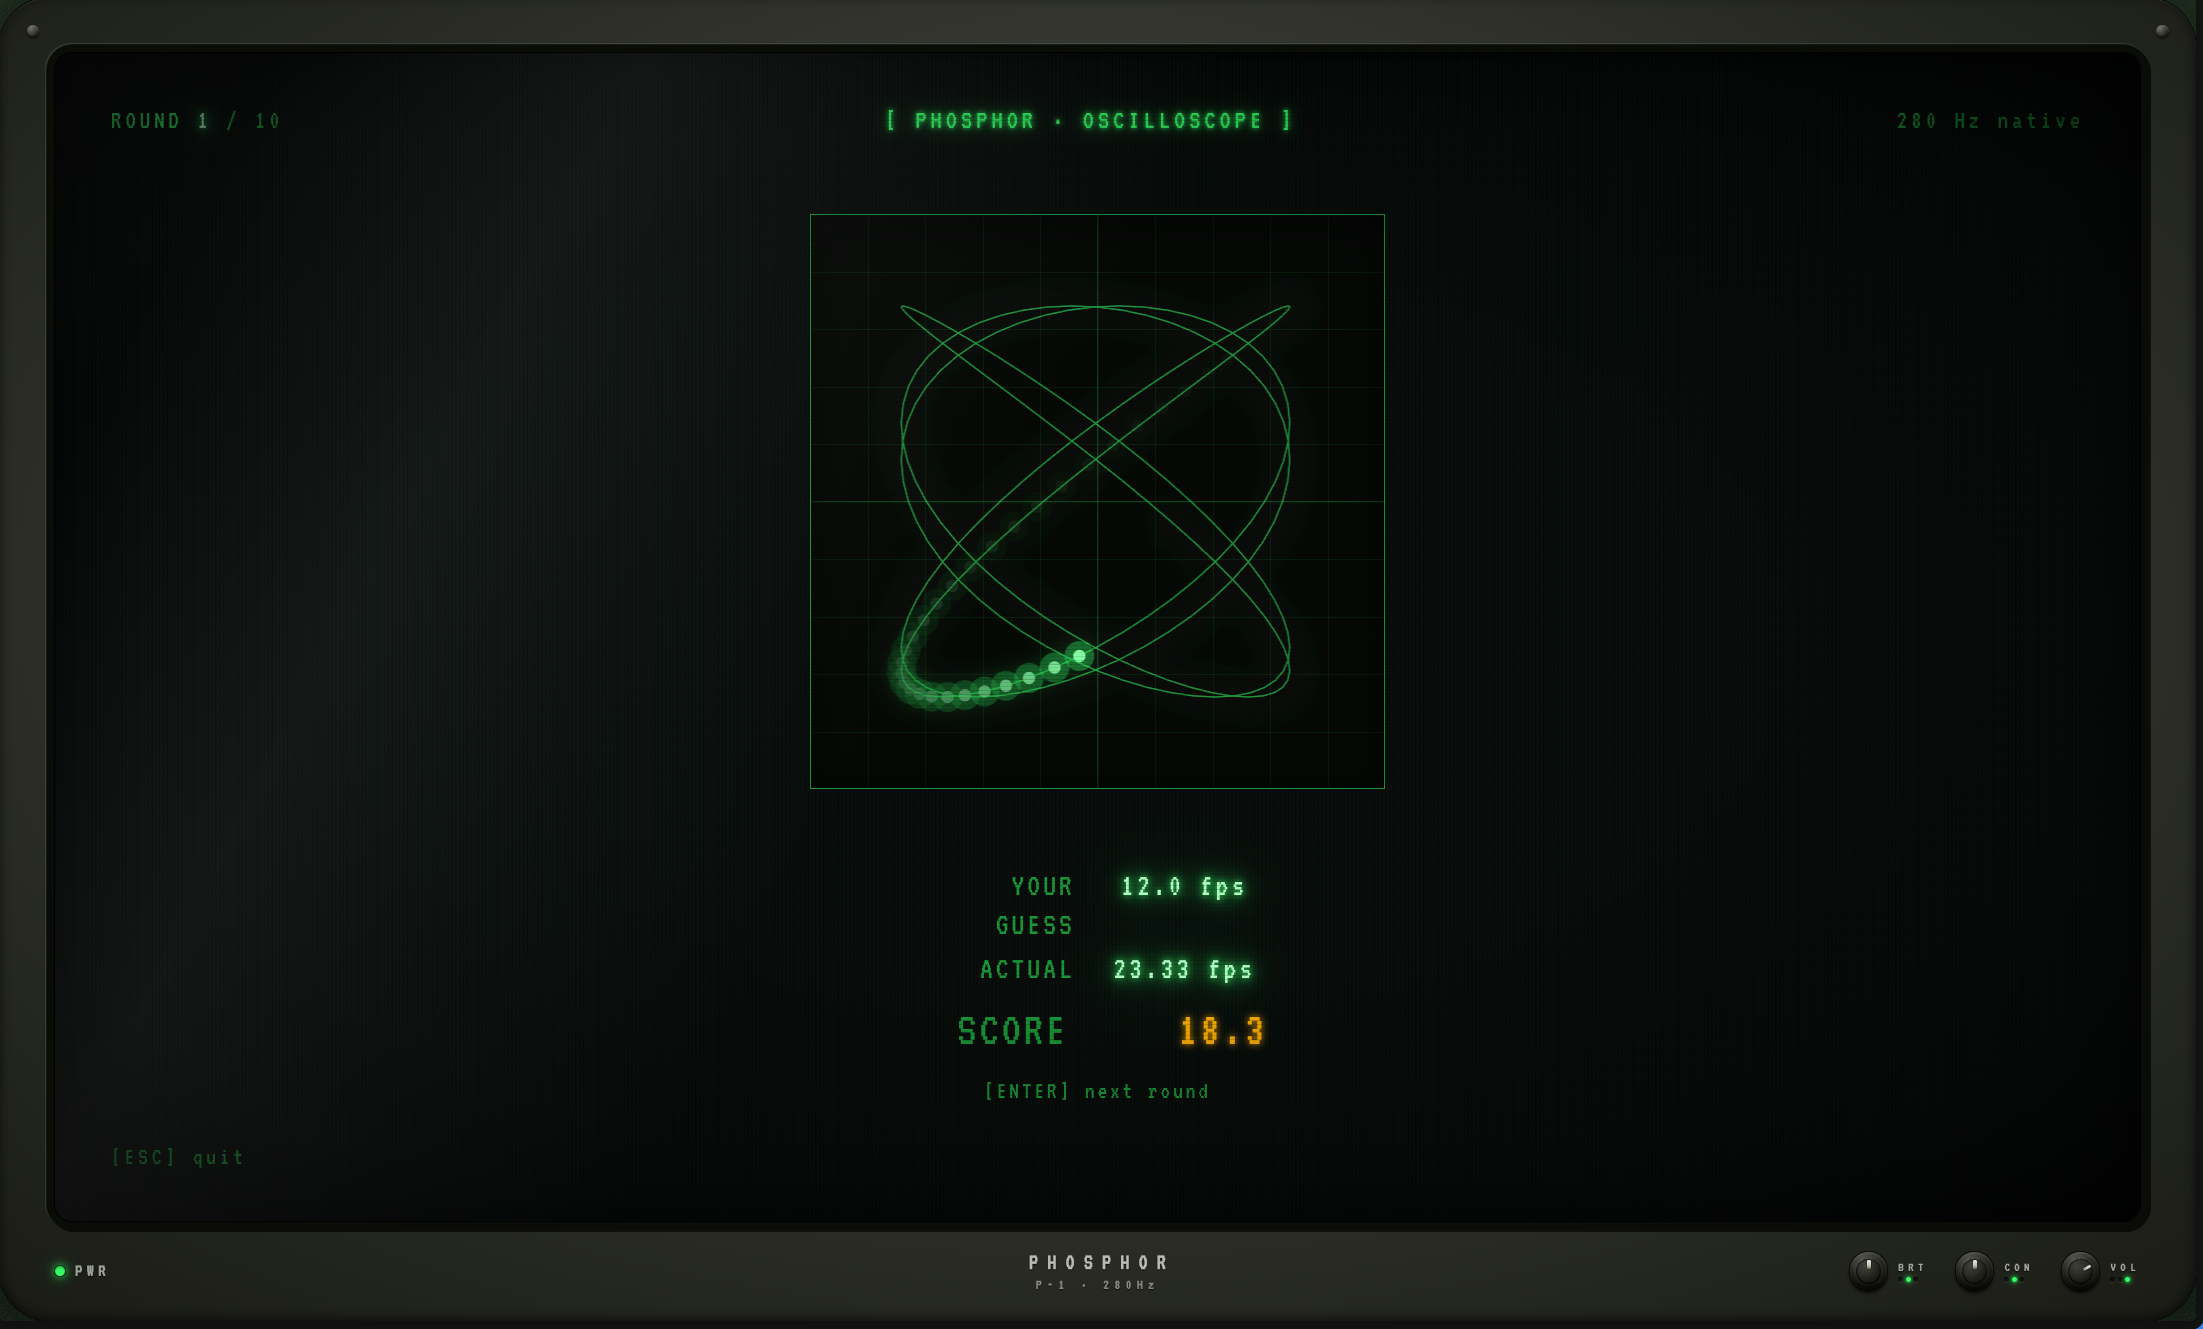
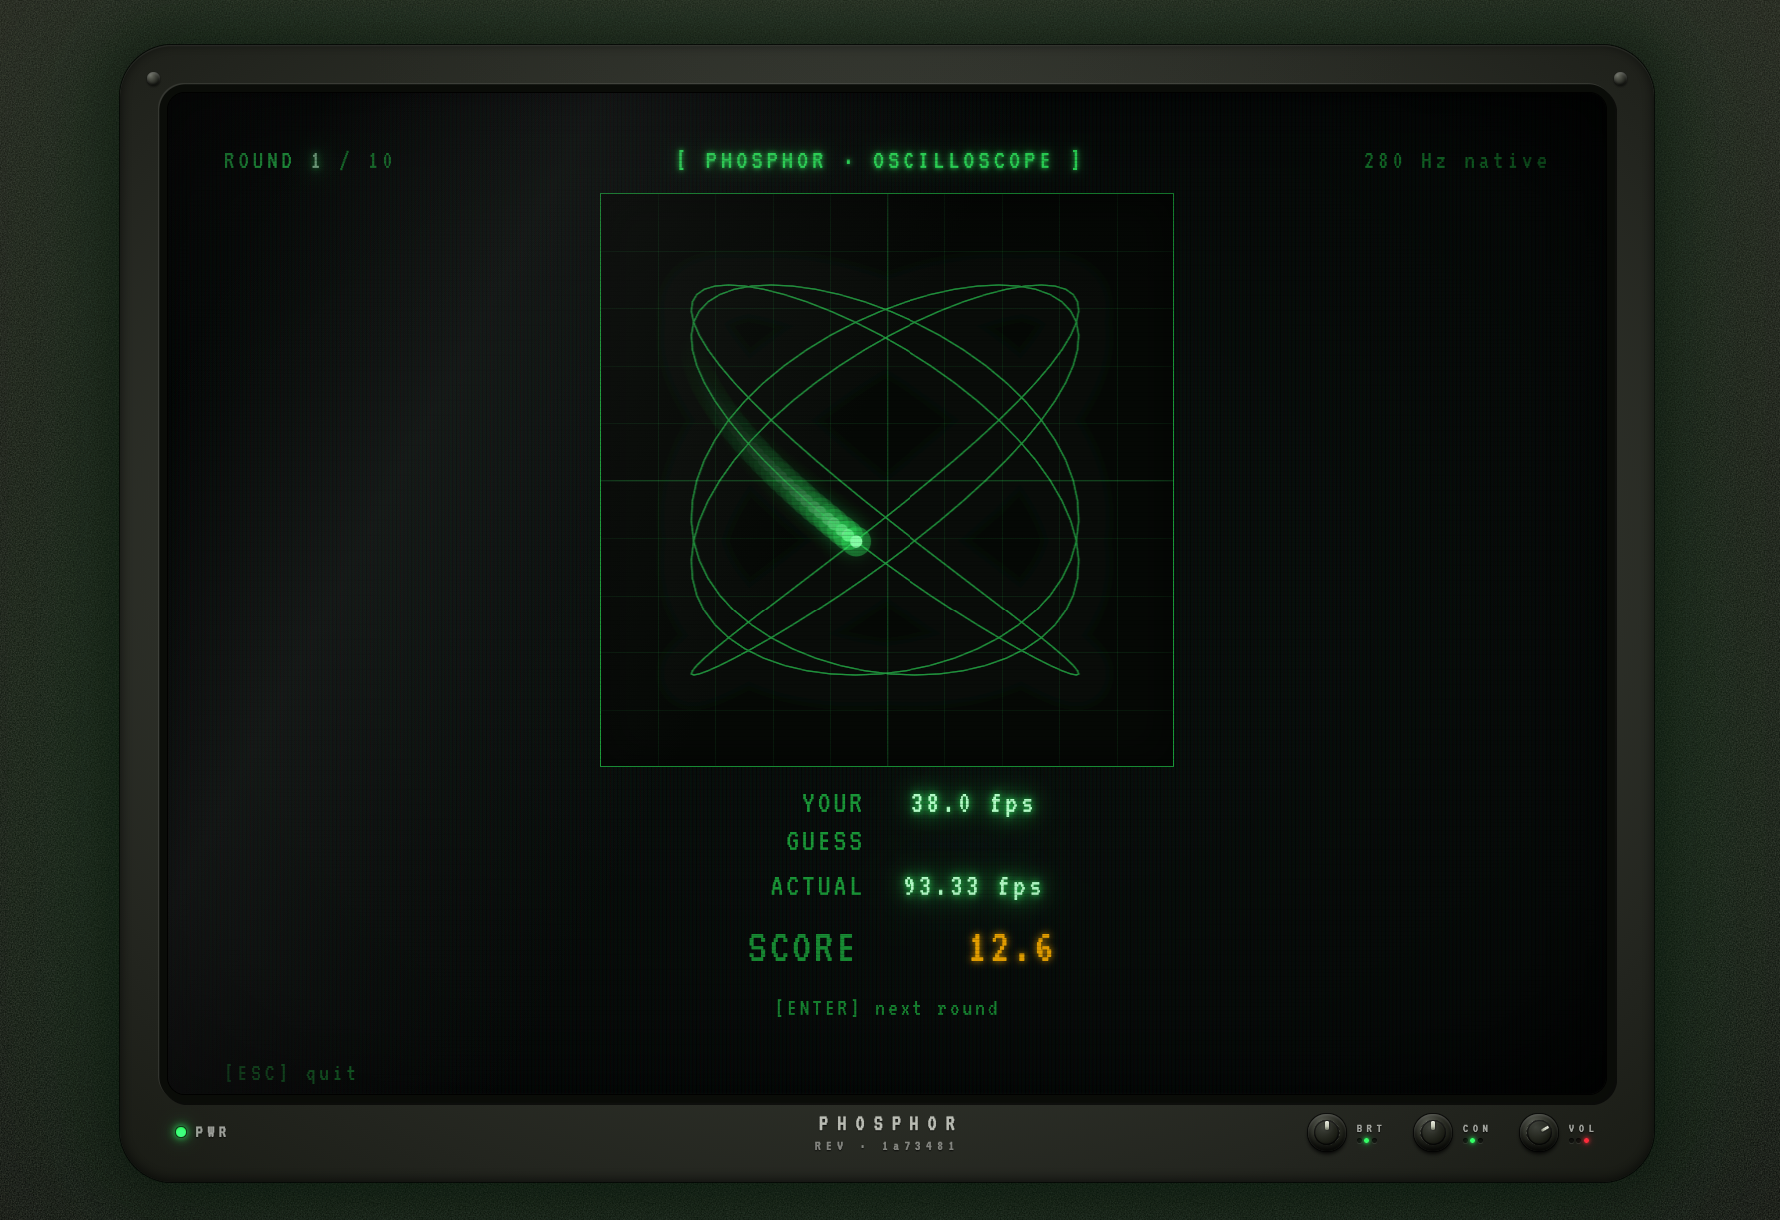
feat(meta): 🔍 add link-unfurl preview card and OG/Twitter meta

diff --git a/index.html b/index.html
@@ -6,6 +6,24 @@
         <meta name="viewport" content="width=device-width, initial-scale=1.0" />
         <meta name="theme-color" content="#0a0f08" />
         <meta name="darkreader-lock" />
+
+        <meta name="description" content="A frame-rate perception test on a small green-phosphor CRT. Guess the FPS, the CRT scores the gap." />
+
+        <meta property="og:type" content="website" />
+        <meta property="og:site_name" content="PHOSPHOR" />
+        <meta property="og:title" content="PHOSPHOR — a frame-rate perception test" />
+        <meta property="og:description" content="A clip plays at a hidden frame rate. You guess the rate. The CRT scores the gap." />
+        <meta property="og:url" content="https://zerbiniandrea.github.io/phosphor/" />
+        <meta property="og:image" content="https://zerbiniandrea.github.io/phosphor/preview.png" />
+        <meta property="og:image:width" content="1200" />
+        <meta property="og:image:height" content="630" />
+        <meta property="og:image:alt" content="PHOSPHOR — terminal card with a small green CRT and the prompt 'phosphor:~$ ./guess-the-fps'" />
+
+        <meta name="twitter:card" content="summary_large_image" />
+        <meta name="twitter:title" content="PHOSPHOR — a frame-rate perception test" />
+        <meta name="twitter:description" content="A clip plays at a hidden frame rate. You guess the rate. The CRT scores the gap." />
+        <meta name="twitter:image" content="https://zerbiniandrea.github.io/phosphor/preview.png" />
+
         <link rel="preconnect" href="https://fonts.googleapis.com" />
         <link rel="preconnect" href="https://fonts.gstatic.com" crossorigin />
         <link